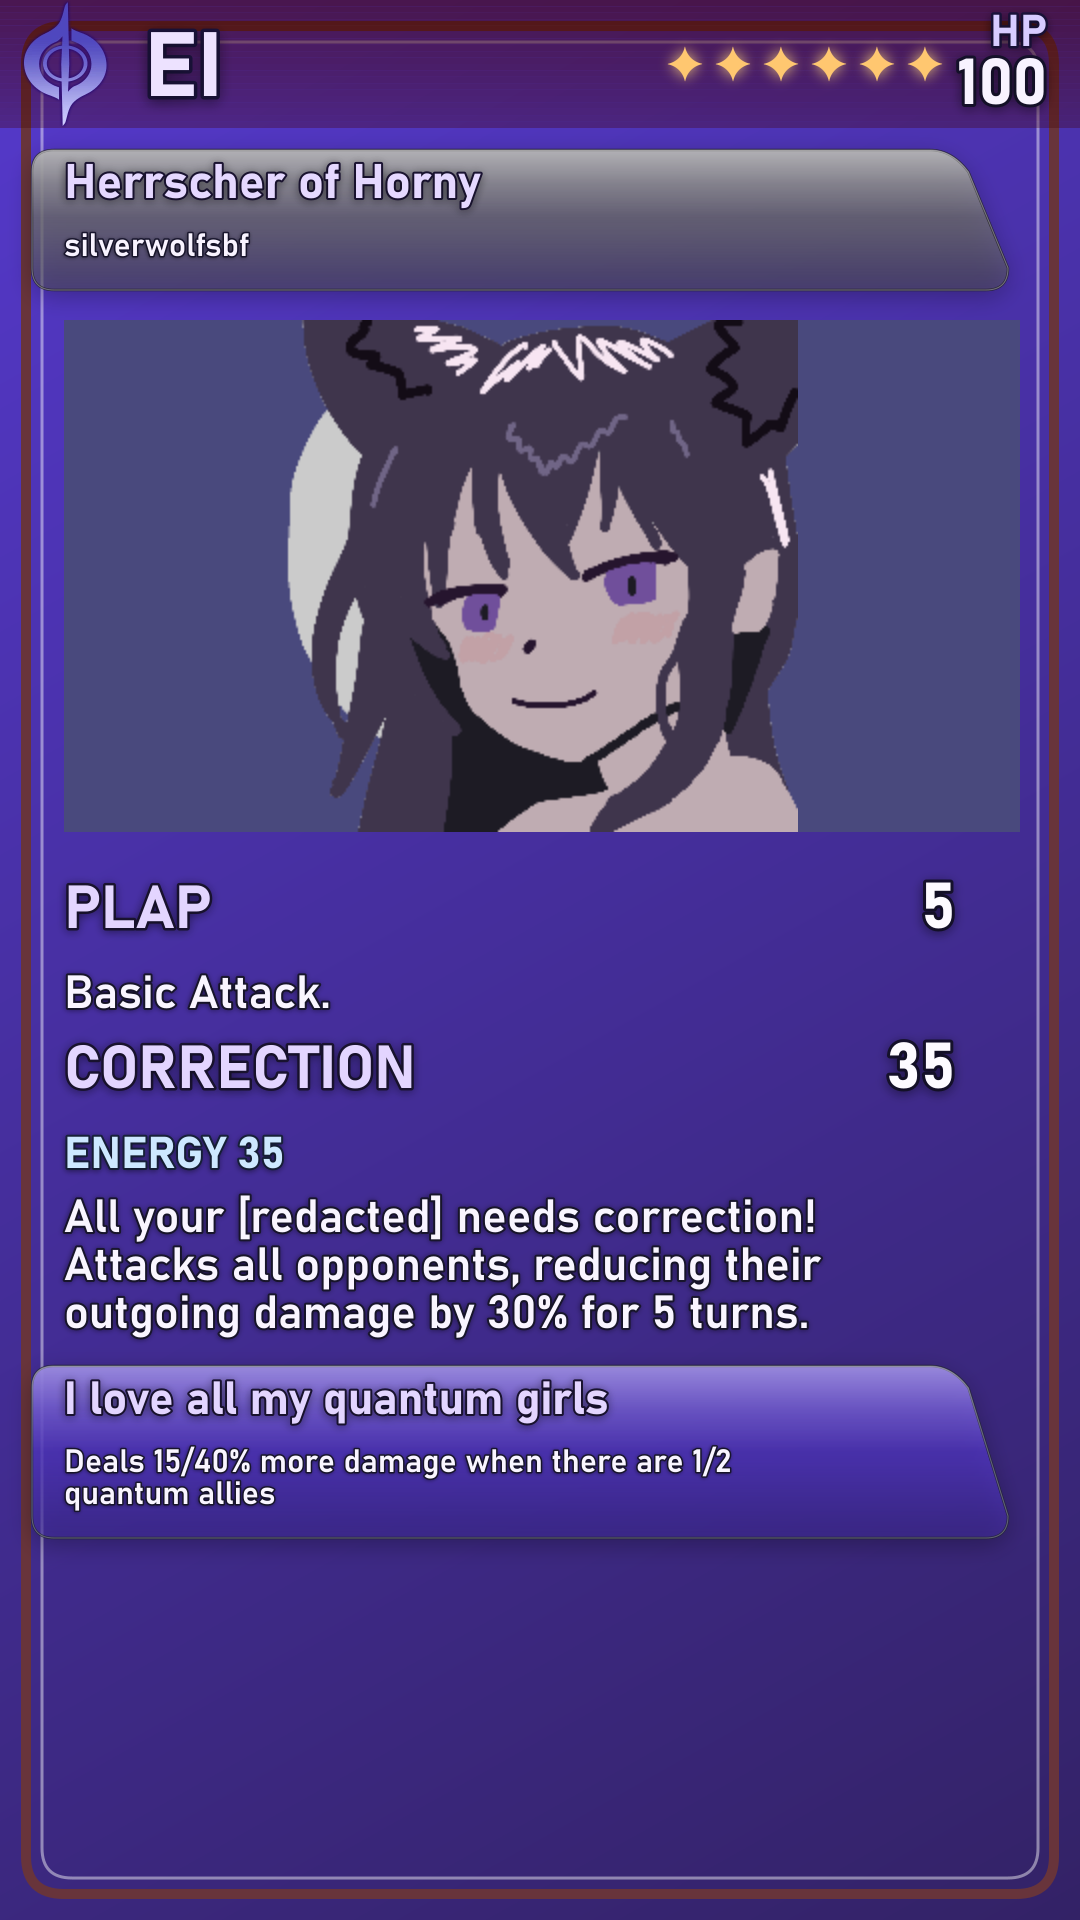
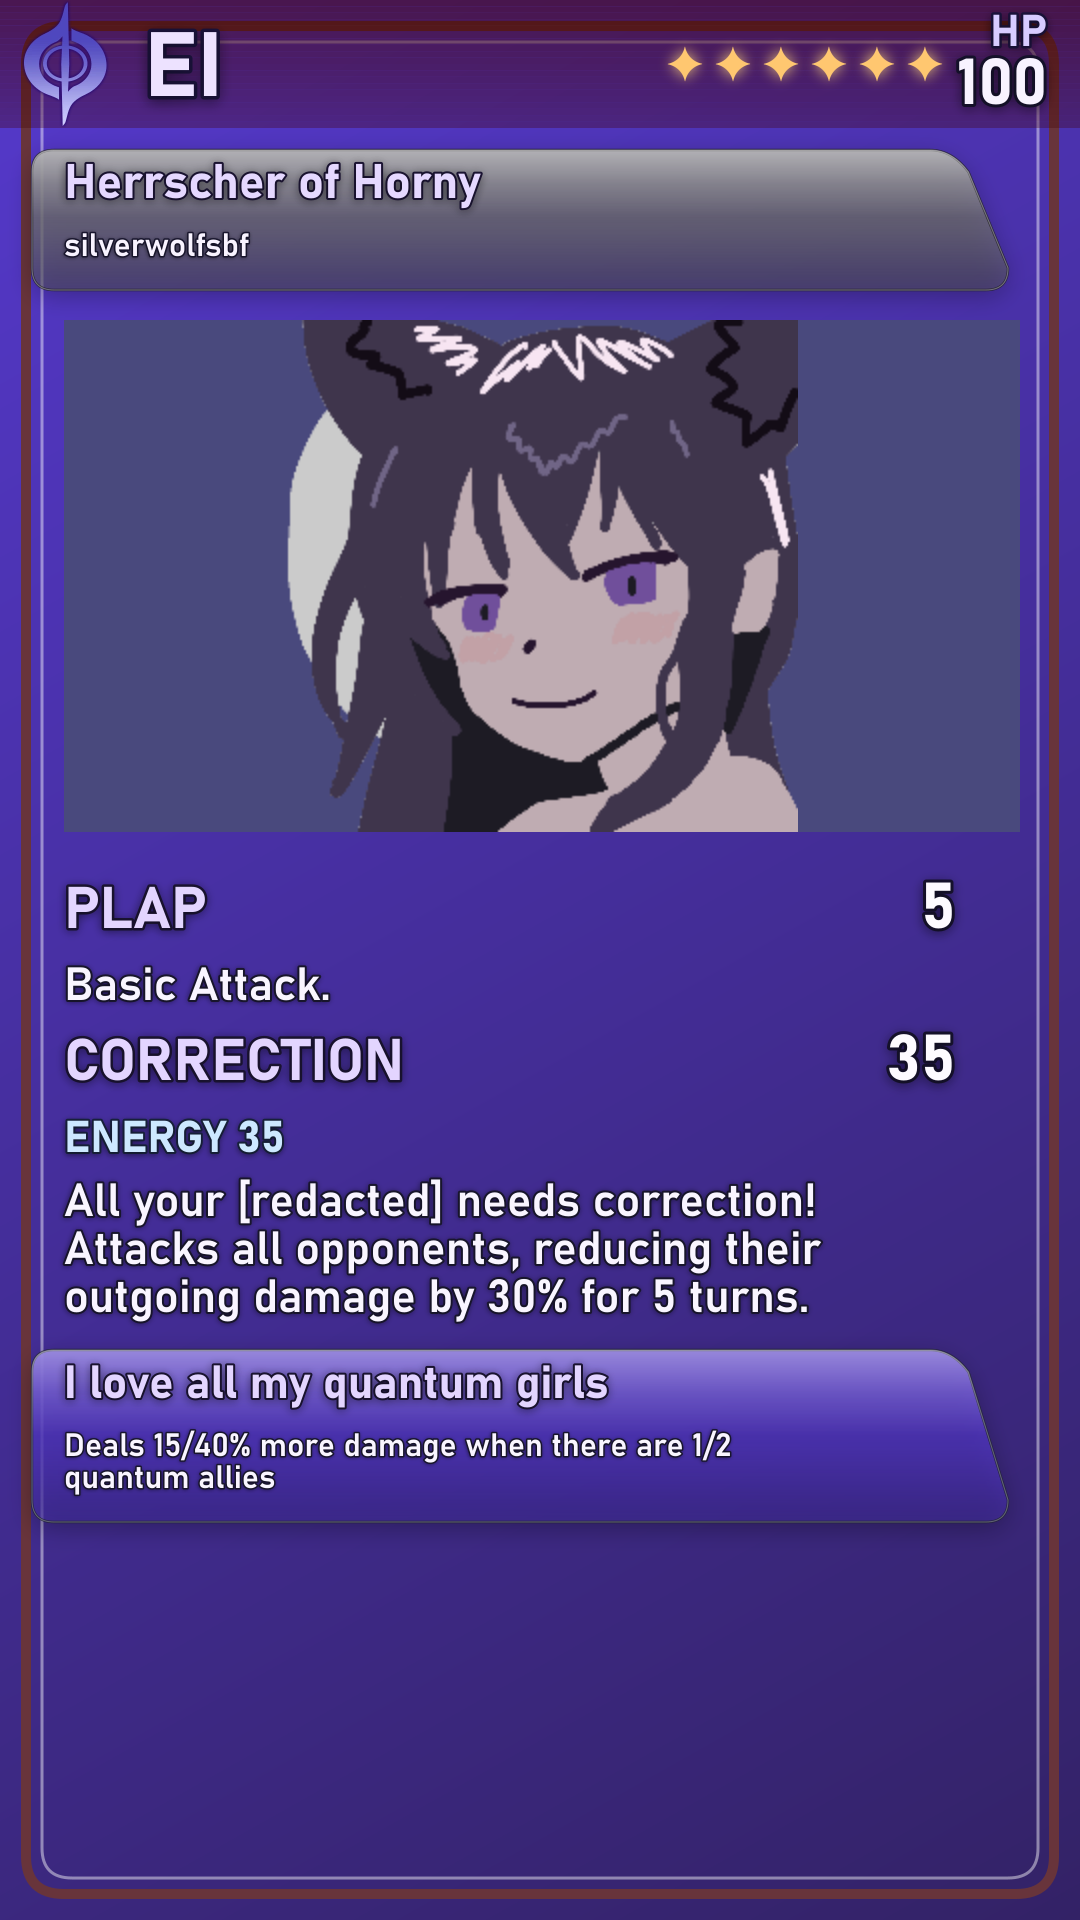
fix[card]: switch lines if too long

Changed region(s): [[0.0306, 0.4375, 0.9472, 0.8125], [0.825, 0.5312, 0.8861, 0.5938], [0.0611, 0.4375, 0.0917, 0.4688]]

diff --git a/tcg/skill.ts b/tcg/skill.ts
@@ -43,16 +43,27 @@ export class Skill implements DrawableBlock {
     let currentY = y;
 
     // Set up text wrapping parameters
-    const maxTextWidth = 800; // Maximum width for text wrapping (leaving space for damage)
+    const maxTextWidth = 800; // Maximum width for description text wrapping
+    const nameLeft = 64;
+    const damageRight = 956;
+    const nameLineHeight = 56;
     const costLineHeight = 48;
     const descLineHeight = 48;
 
-    // Wrap only the description text
+    // Reserve right-side area for damage, then wrap the skill name to avoid overlap.
+    const damageText = this.damage > 0 ? `${this.damage}` : '--';
+    ctx.font = '700 64px "Bahnschrift"';
+    const damageTextWidth = ctx.measureText(damageText).width;
+    const damageSlotWidth = Math.max(180, damageTextWidth + 56);
+    const nameMaxWidth = Math.max(360, (damageRight - damageSlotWidth) - nameLeft);
+
+    ctx.font = '700 60px "Bahnschrift"';
+    const nameLines = wrapText(ctx, this.name.toUpperCase(), nameMaxWidth);
+    const nameHeight = calculateWrappedTextHeight(nameLines, nameLineHeight);
+
+    // Wrap description text
     ctx.font = '48px "Bahnschrift"';
     const descLines = wrapText(ctx, this.description, maxTextWidth);
-
-    // Calculate total height needed
-    const nameHeight = 64; // Fixed height for single-line name
 
     // Add cost height if present
     let costHeight = 0;
@@ -62,9 +73,9 @@ export class Skill implements DrawableBlock {
 
     const descHeight = calculateWrappedTextHeight(descLines, descLineHeight);
 
-    // Draw attack name (single line)
-    drawTcgText(ctx, this.name.toUpperCase(), 64, currentY, {
-      font: '700 60px "Bahnschrift"',
+    // Draw attack name (wrapped when needed)
+    drawWrappedTcgText(ctx, nameLines, nameLeft, currentY, nameLineHeight, {
+      font: '700 58px "Bahnschrift"',
       fillStyle: textColors.skillNameFill,
       strokeStyle: textColors.skillNameStroke,
       lineWidth: 5,
@@ -74,8 +85,8 @@ export class Skill implements DrawableBlock {
     });
 
     // Draw damage on the right side
-    const damageText = this.damage > 0 ? `${this.damage}` : '--';
-    drawTcgText(ctx, damageText, 956, currentY, {
+    const damageY = currentY + Math.max(0, (nameHeight - 64) / 2);
+    drawTcgText(ctx, damageText, damageRight, damageY, {
       font: '700 64px "Bahnschrift"',
       fillStyle: textColors.skillDamageFill,
       strokeStyle: textColors.skillDamageStroke,

diff --git a/commands/card_show.js b/commands/card_show.js
@@ -29,11 +29,6 @@ class CardShow extends Command {
       return;
     }
 
-    if (!character.image || !character.image.trim()) {
-      await interaction.editReply(`${character.name} does not have an image configured yet.`);
-      return;
-    }
-
     try {
       const canvas = await character.generateCard();
       const buffer = canvas.toBuffer('image/png');
